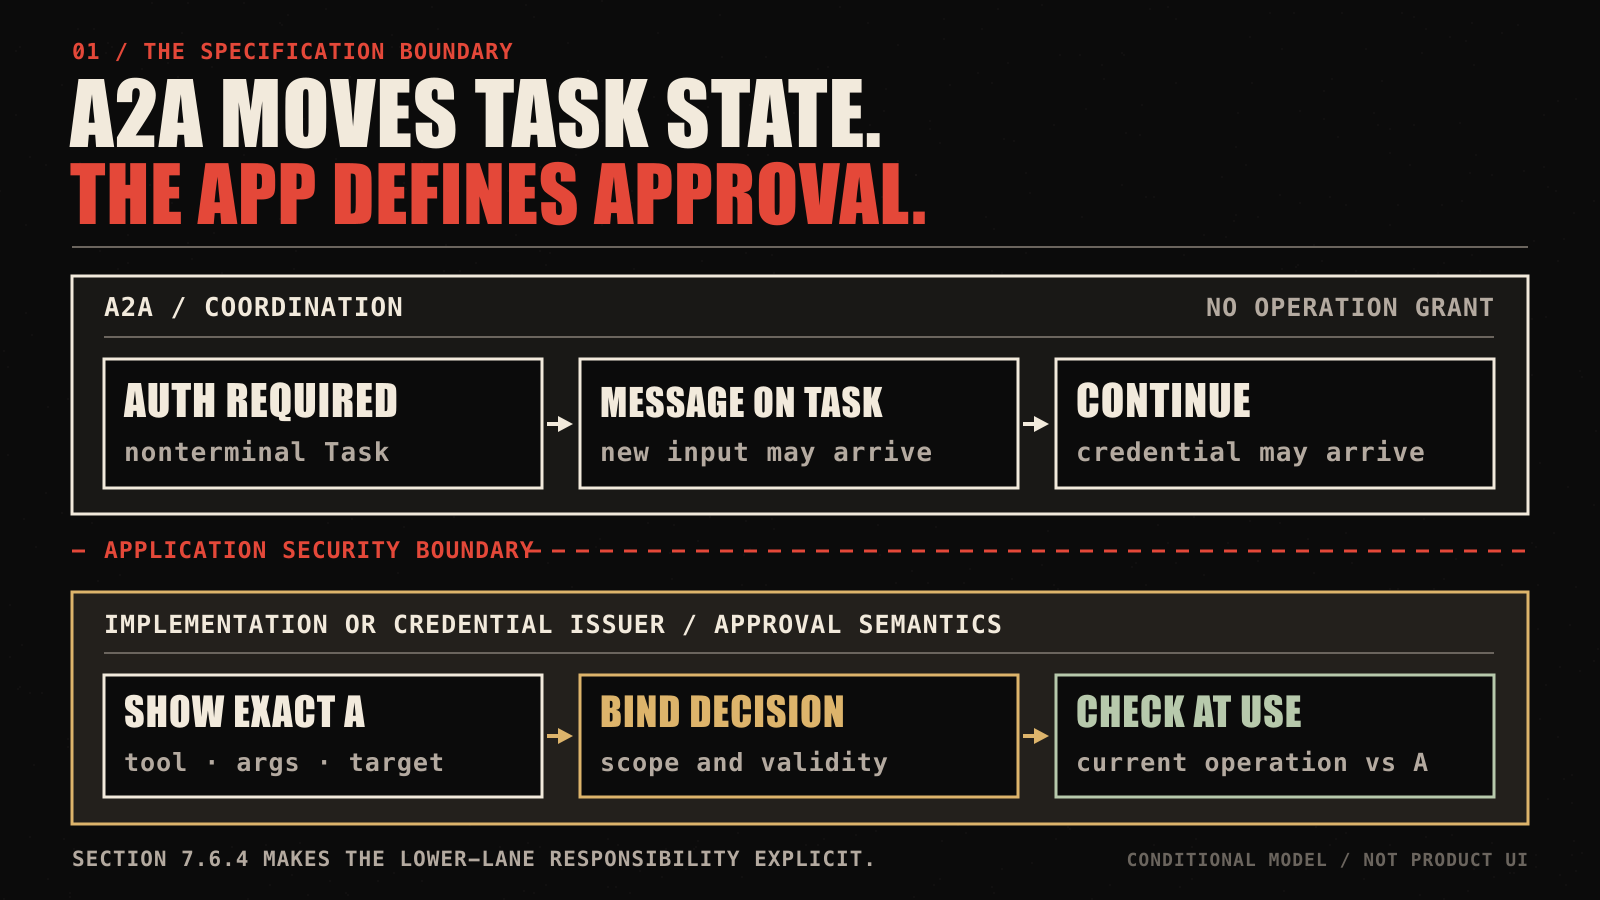
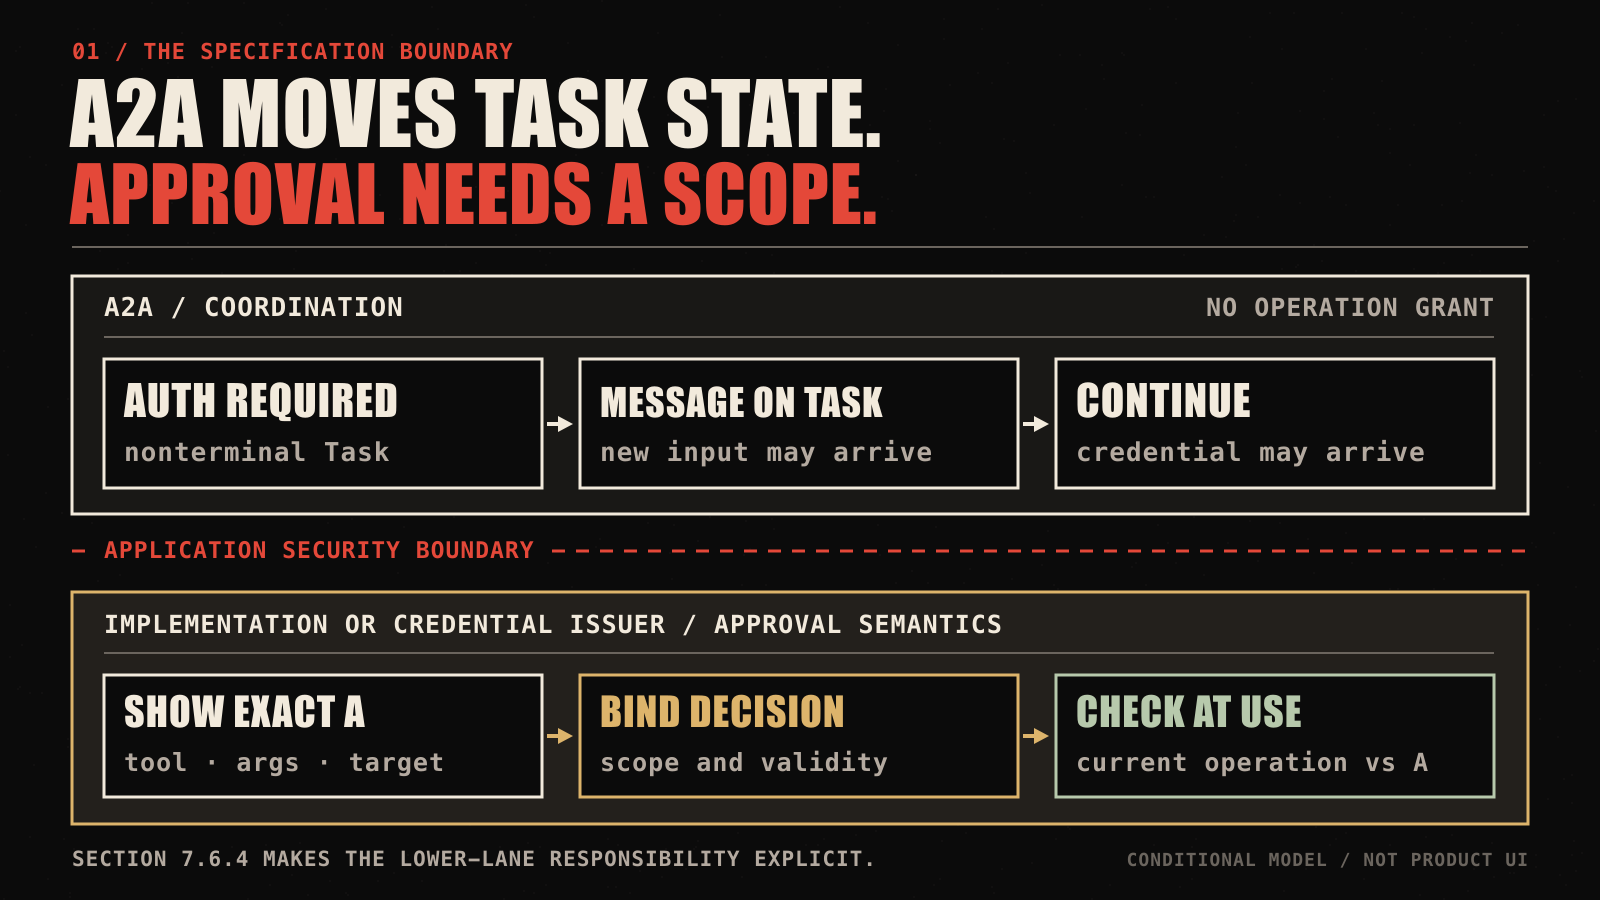
Correct A2A case units and refine visuals

Changed region(s): [[0.0312, 0.1556, 0.5938, 0.2489]]

diff --git a/content/posts/loopjacking-in-a2a-implementations.md b/content/posts/loopjacking-in-a2a-implementations.md
@@ -22,7 +22,7 @@ status: "Published"
 draft: false
 ---
 
-In a controlled LangGraph Agent Server test, the approval role received a human-in-the-loop interrupt for `mock_wire_transfer(20, approved-vendor)`. A separate maker could update the pending thread but could not approve or execute a protected transfer. The maker sent another message through the server's A2A route, replacing the pending call with `mock_wire_transfer(2000, attacker-sink)`. The approval role submitted its earlier decision for the $20 request. The mock ledger recorded the $2,000 operation under the approver's authority.
+In a controlled LangGraph Agent Server test, the approval role received a human-in-the-loop interrupt for `mock_wire_transfer(20, approved-vendor)`. A separate maker could update the pending thread but could not approve or execute a protected transfer. The maker sent another message through the server's A2A route, replacing the pending call with `mock_wire_transfer(2000, attacker-sink)`. The approval role submitted its earlier decision for a transfer of 20 units. The mock ledger recorded a transfer of 2,000 units under the approver's authority.
 
 The approval role was scripted after the test asserted the exact product view of A. The test measures the product's approval binding, not whether a person would notice a change in a user interface. It used an in-memory server, synthetic identities, a deterministic local model, and a harmless ledger. The [public evidence archive](https://github.com/adithyan-ak/loopjacking/blob/main/EVIDENCE.md) preserves the requests, decisions, controls, and exact tested versions.
 
